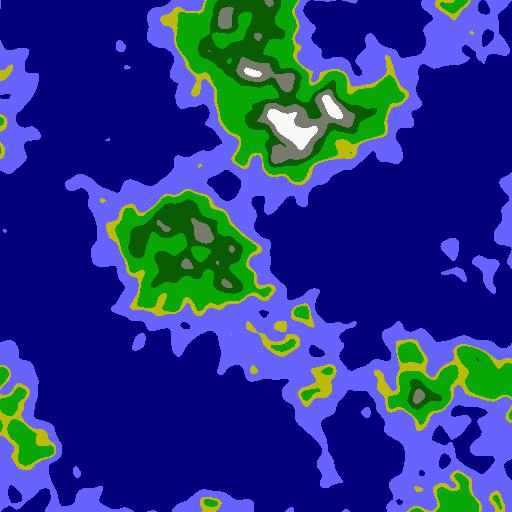
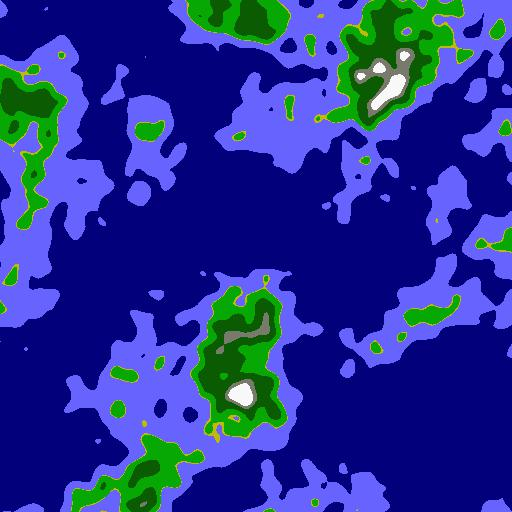
reset to simpler height values

diff --git a/main.py b/main.py
@@ -19,21 +19,13 @@ def colorHex(value):
         return ['03', '00', '7B'] # deep water
     elif value < 0.075:
         return ['66', '63', 'FF'] # shallow water
-    else:
-        value = value - 0.075 # make lowest value 0
-        value *= 10 # between 0 and 1
-        value *= 0.5 # reduce max val
-        value *= 256 # convert to color range 0 to 256
-
-        # return [str(hex(int(value))).replace('0x','')[:2], '00', '00']
-
-    if value < 25:
+    elif value < 0.08:
         return ['BF', 'BA', '07'] # beach
-    elif value < 115:
+    elif value < 0.125:
         return ['07', 'A8', '04'] # field
-    elif value < 170:
+    elif value < 0.175:
         return ['0B', '5B', '02'] # forest
-    elif value < 225:
+    elif value < 0.2:
         return ['78', '7A', '6B'] # stone
     else:
         return ['F8', 'F8', 'F8'] # snowwy mountain top
